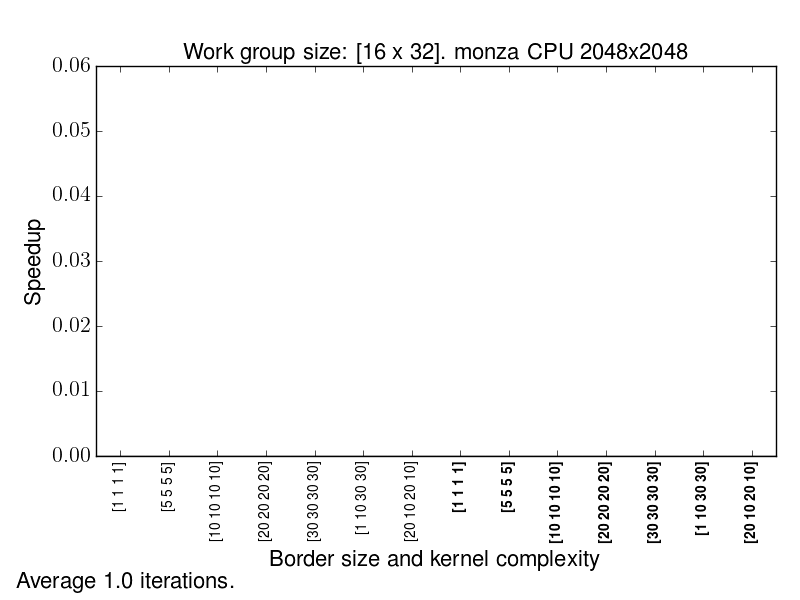
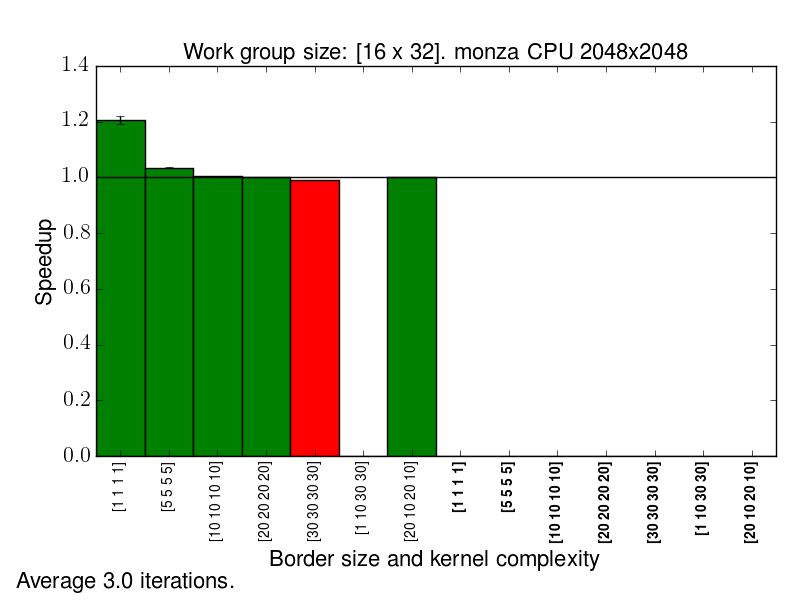
replot e14

diff --git a/benchmarks/results/e14/bestSpeedupsForKernel-2048.tex b/benchmarks/results/e14/bestSpeedupsForKernel-2048.tex
@@ -2,13 +2,13 @@
 \hline
 \textbf{Kernel} & \textbf{florence CPU} & \textbf{cec CPU} & \textbf{whz5 1xGPU} & \textbf{tim 1xGPU} & \textbf{tim 2xGPU} & \textbf{tim 3xGPU} & \textbf{tim 4xGPU} & \textbf{monza 1xGPU} & \textbf{monza 2xGPU} & \textbf{monza CPU} & \textit{Unique}\\
 \hline
-{[}1,1,1,1{]} & (64, 32) & (64, 4) & (64, 4) & None & None & None & None & (32, 4) & None & (32, 32) & 4 (80\%)\\
-{[}5,5,5,5{]} & (64, 64) & (64, 16) & (64, 4) & None & None & None & None & (64, 4) & None & (32, 32) & 4 (80\%)\\
+{[}1,1,1,1{]} & (64, 32) & (64, 4) & (64, 4) & None & None & None & None & (16, 4) & None & (64, 16) & 4 (80\%)\\
+{[}5,5,5,5{]} & (64, 64) & (64, 16) & (64, 4) & None & None & None & None & (64, 4) & None & (64, 16) & 3 (60\%)\\
 {[}10,10,10,10{]} & (64, 64) & (64, 16) & (64, 16) & None & None & None & None & (64, 4) & None & (32, 32) & 4 (80\%)\\
-{[}20,20,20,20{]} & (4, 32) & (16, 16) & (32, 16) & None & None & None & None & (64, 4) & None & (4, 64) & 5 (100\%)\\
-{[}30,30,30,30{]} & (64, 4) & (32, 16) & (64, 16) & None & None & None & None & (64, 4) & None & (4, 64) & 4 (80\%)\\
-{[}1,10,30,30{]} & (4, 64) & (16, 32) & None & None & None & None & None & (64, 4) & None & None & 3 (100\%)\\
-{[}20,10,20,10{]} & (32, 64) & (32, 64) & (32, 16) & None & None & None & None & (64, 4) & None & (32, 32) & 4 (80\%)\\
+{[}20,20,20,20{]} & (4, 32) & (16, 16) & (32, 16) & None & None & None & None & (16, 16) & None & (16, 64) & 4 (80\%)\\
+{[}30,30,30,30{]} & (64, 4) & (32, 16) & (64, 16) & None & None & None & None & (16, 16) & None & (4, 64) & 5 (100\%)\\
+{[}1,10,30,30{]} & (4, 64) & (16, 32) & None & None & None & None & None & (16, 16) & None & None & 3 (100\%)\\
+{[}20,10,20,10{]} & (32, 64) & (32, 64) & (32, 16) & None & None & None & None & (16, 16) & None & (32, 32) & 4 (80\%)\\
 \textbf{{[}1,1,1,1{]}} & (64, 64) & (64, 4) & (64, 4) & None & None & None & None & (64, 4) & None & None & 2 (50\%)\\
 \textbf{{[}5,5,5,5{]}} & (64, 64) & (64, 64) & (16, 16) & None & None & None & None & (64, 4) & None & None & 3 (75\%)\\
 \textbf{{[}10,10,10,10{]}} & (64, 64) & (64, 16) & (64, 16) & None & None & None & None & (16, 16) & None & None & 3 (75\%)\\
@@ -17,6 +17,6 @@
 \textbf{{[}1,10,30,30{]}} & (32, 64) & (16, 4) & None & None & None & None & None & (16, 16) & None & None & 3 (100\%)\\
 \textbf{{[}20,10,20,10{]}} & (32, 64) & (32, 32) & (32, 16) & (4, 64) & (64, 4) & None & None & (16, 16) & None & None & 6 (100\%)\\
 \hline
-\textit{Unique} & 6 (42\%) & 9 (64\%) & 5 (41\%) & 2 (100\%) & 2 (100\%) & 1 (100\%) & 1 (50\%) & 3 (21\%) & 0 (0\%) & 2 (33\%) & \\
+\textit{Unique} & 6 (42\%) & 9 (64\%) & 5 (41\%) & 2 (100\%) & 2 (100\%) & 1 (100\%) & 1 (50\%) & 3 (21\%) & 0 (0\%) & 4 (66\%) & \\
 \hline
 \end{tabular}
